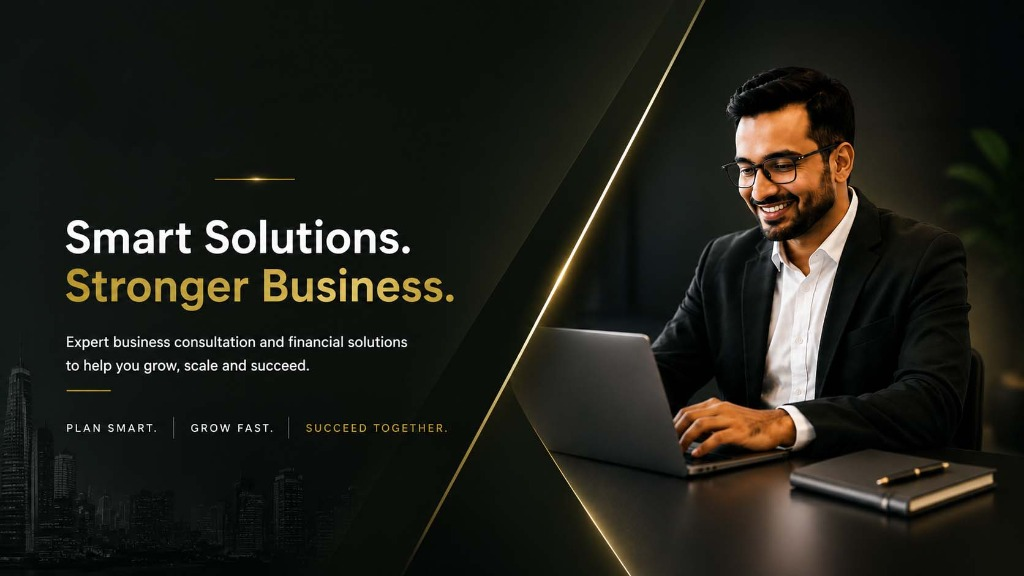
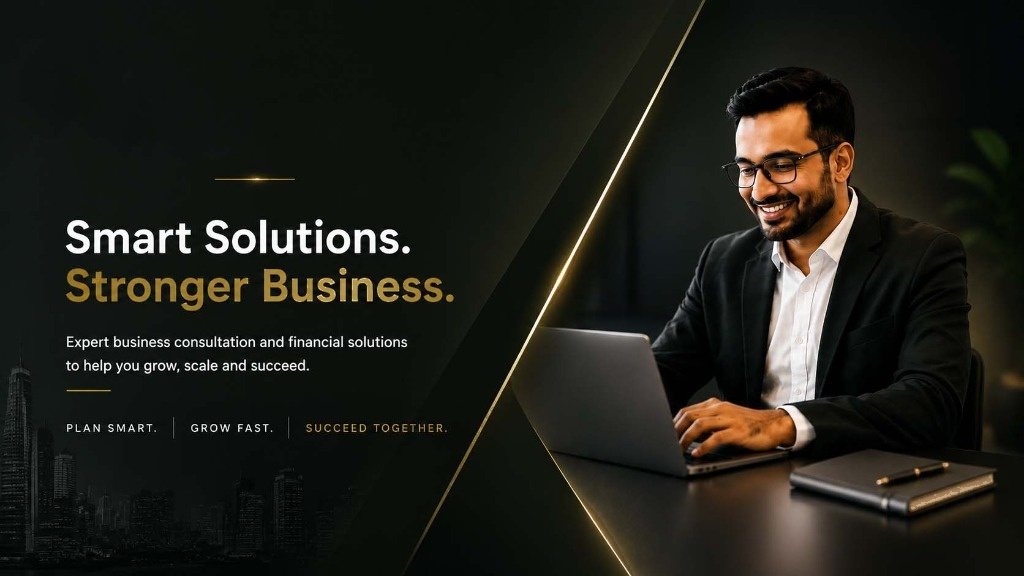
Update smart-solutions.jpg to match secondary color #C89004 and fix process label background color

diff --git a/src/styles/global.css b/src/styles/global.css
@@ -310,7 +310,7 @@ button { cursor: pointer; }
   display: flex;
   align-items: flex-end;
   padding: 0 34px 37px;
-  background-color: #D5A000;
+  background-color: var(--secondary);
   background-image:
     radial-gradient(circle at 2% 4%, transparent 0 38px, rgba(255,255,255,.11) 39px 40px, transparent 41px 70px, rgba(255,255,255,.09) 71px 72px, transparent 73px 105px, rgba(255,255,255,.07) 106px 107px, transparent 108px),
     radial-gradient(circle at 7% 28%, transparent 0 70px, rgba(255,255,255,.055) 71px 72px, transparent 73px 110px);

diff --git a/color_replace_hsv.py b/color_replace_hsv.py
@@ -1,0 +1,49 @@
+from PIL import Image
+import colorsys
+
+def adjust_image():
+    img = Image.open('public/images/smart-solutions.jpg').convert('RGBA')
+    pixels = img.load()
+    
+    # Target color: #C89004 -> R=200, G=144, B=4
+    # Let's find its HSV
+    target_r, target_g, target_b = 200/255.0, 144/255.0, 4/255.0
+    th, ts, tv = colorsys.rgb_to_hsv(target_r, target_g, target_b)
+    
+    # Source color approx: #F1BD15 -> R=241, G=189, B=21
+    sh, ss, sv = colorsys.rgb_to_hsv(241/255.0, 189/255.0, 21/255.0)
+    
+    hue_shift = th - sh
+    
+    for y in range(img.height):
+        for x in range(img.width):
+            r, g, b, a = pixels[x, y]
+            
+            # Convert to HSV
+            h, s, v = colorsys.rgb_to_hsv(r/255.0, g/255.0, b/255.0)
+            
+            # Filter for yellow (Hue around 40-55 degrees, which is 40/360 to 55/360)
+            # 46 / 360 is ~0.127
+            if 0.08 < h < 0.18 and s > 0.4 and v > 0.4:
+                # Apply hue shift
+                new_h = h + hue_shift
+                if new_h < 0: new_h += 1
+                if new_h > 1: new_h -= 1
+                
+                # We can also scale value and saturation to match the target's darker, more intense look
+                # target value is ~0.78, source is ~0.94
+                new_v = v * (tv / sv)
+                new_s = s * (ts / ss)
+                
+                new_v = max(0, min(1, new_v))
+                new_s = max(0, min(1, new_s))
+                
+                nr, ng, nb = colorsys.hsv_to_rgb(new_h, new_s, new_v)
+                pixels[x, y] = (int(nr*255), int(ng*255), int(nb*255), a)
+
+    # Save with high quality to preserve the rest of the image
+    img = img.convert('RGB')
+    img.save('public/images/smart-solutions.jpg', quality=95)
+
+adjust_image()
+print("Done")

diff --git a/color_replace.py b/color_replace.py
@@ -1,0 +1,40 @@
+from PIL import Image
+import math
+
+def color_distance(c1, c2):
+    return math.sqrt(sum((a - b)**2 for a, b in zip(c1, c2)))
+
+def adjust_image():
+    # Load original
+    img = Image.open('public/images/smart-solutions.jpg').convert('RGB')
+    pixels = img.load()
+    
+    # Target and Source roughly
+    # source yellow is roughly 241, 189, 21 (#F1BD15)
+    # target is 200, 144, 4 (#C89004)
+    # We will convert to HSV or just apply a blend if it's close to yellow
+    
+    for y in range(img.height):
+        for x in range(img.width):
+            r, g, b = pixels[x, y]
+            
+            # Simple heuristic for yellow in this specific image
+            # Yellow text should have high R and G, low B
+            if r > 150 and g > 100 and b < 100 and r > b + 50 and g > b + 30:
+                # Let's do a relative shift
+                # Decrease R by ~15%, G by ~20%, B by ~50%
+                new_r = int(r * (200 / 241))
+                new_g = int(g * (144 / 189))
+                new_b = int(b * (4 / 21)) if b > 5 else b
+                
+                # Clamp
+                new_r = max(0, min(255, new_r))
+                new_g = max(0, min(255, new_g))
+                new_b = max(0, min(255, new_b))
+                
+                pixels[x, y] = (new_r, new_g, new_b)
+
+    img.save('public/images/smart-solutions.jpg')
+
+adjust_image()
+print("Done")
